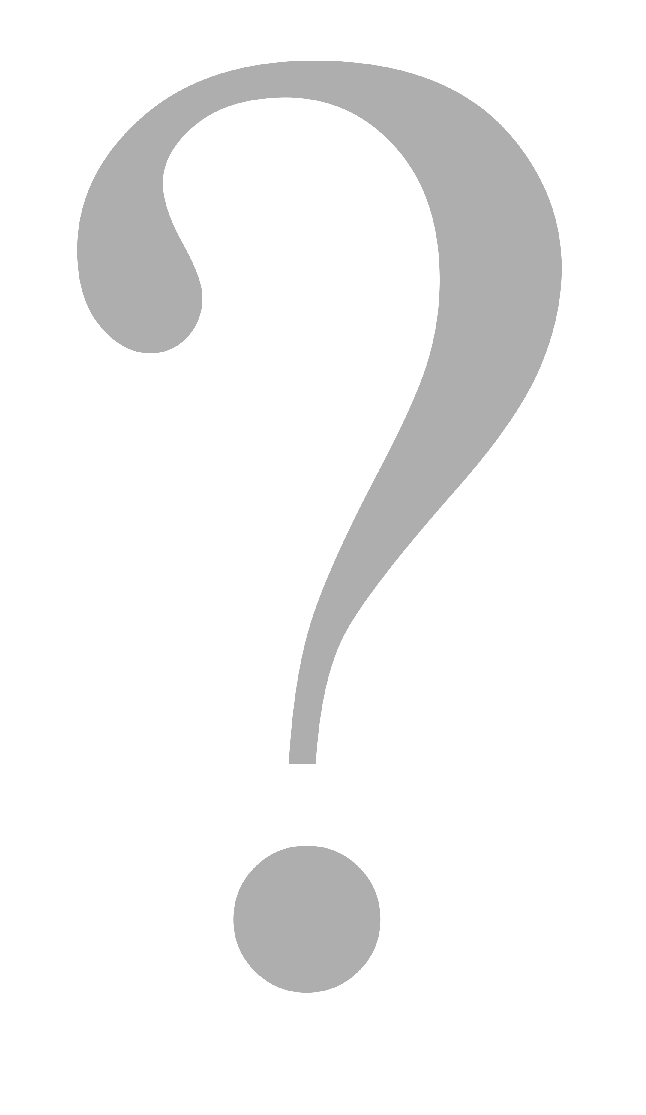
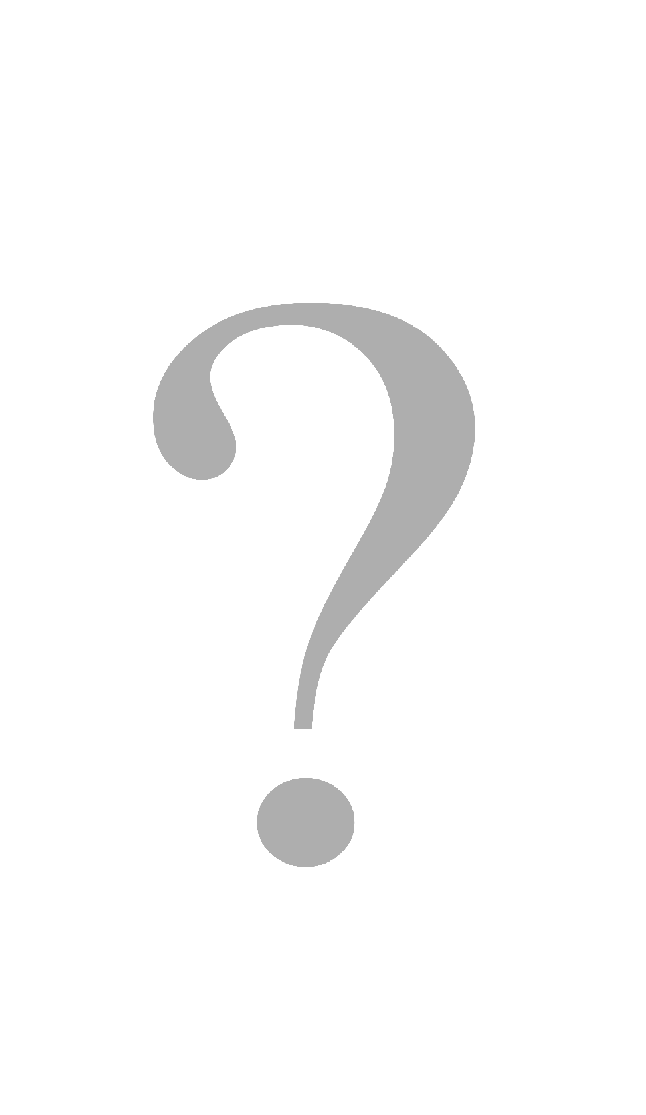
Fixed image (question mark) when not found.

diff --git a/App/plugins/mixinCommonMethods.js b/App/plugins/mixinCommonMethods.js
@@ -18,13 +18,15 @@ Vue.mixin({
     },
     pathToImage (path) {
       if (path) {
-        return path;
+        var img = new Image();
+        img.src = path;
+        return img.height === 0 ? 'questionMark.png' : path;
       } else {
         return 'questionMark.png';
       }
     },
     encodeURL (inputURL) {
-      return encodeURIComponent(inputURL)
+      return encodeURIComponent(inputURL);
     },
     isEmpty (obj) {
         for(var prop in obj) {
